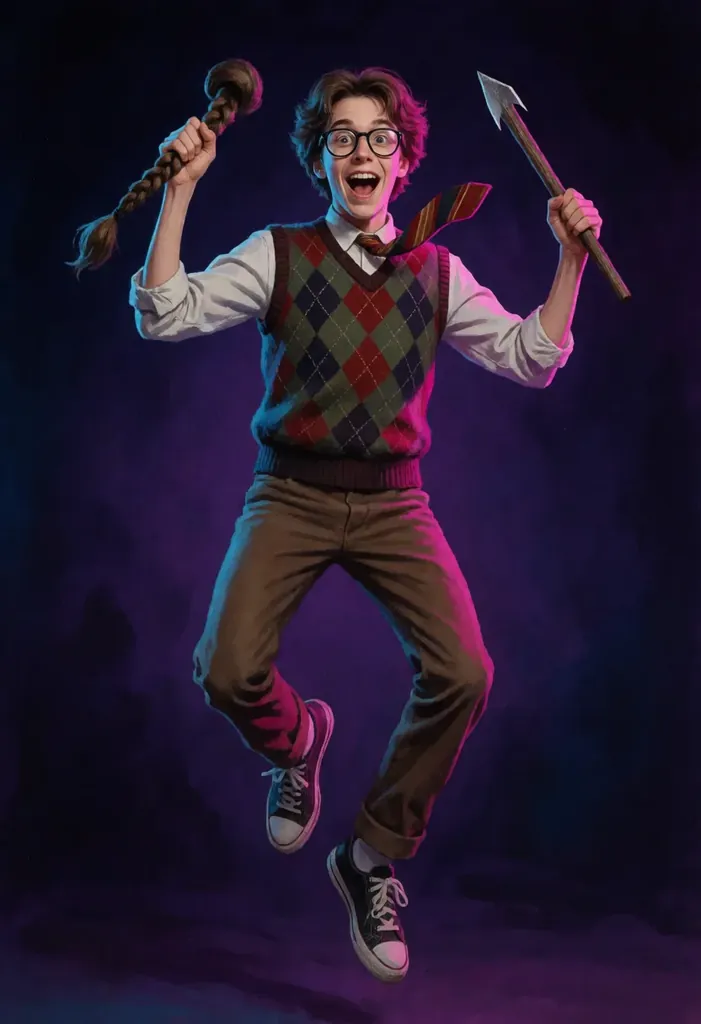
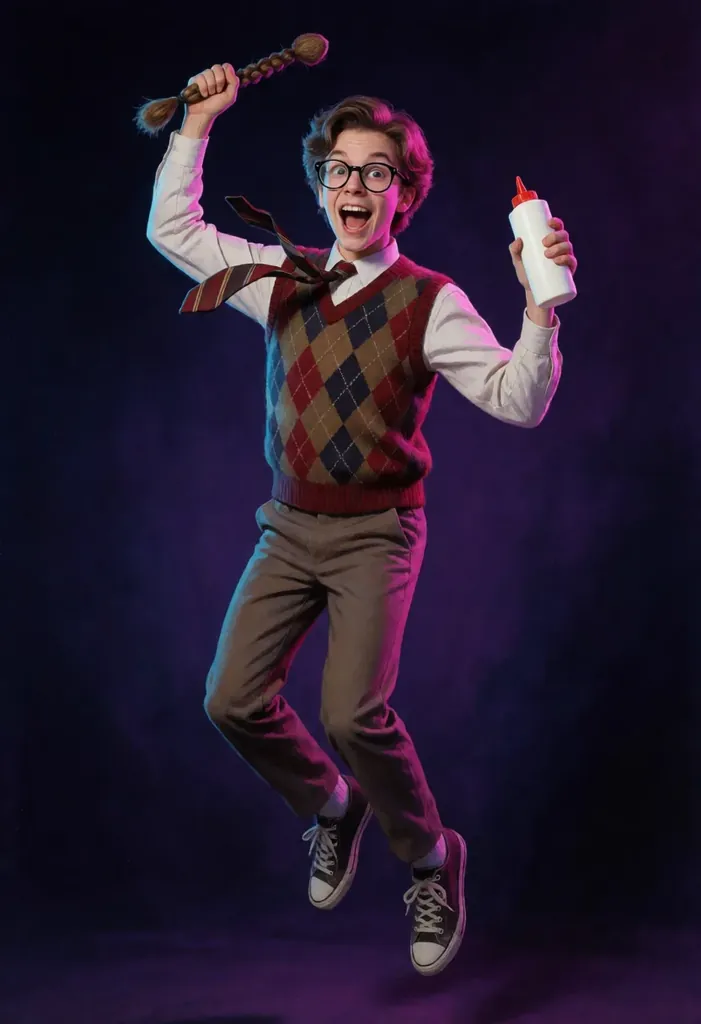
Crystal Street: clique cards in the new-week wizard, Vampire Hunter re-roll (#4163)
* Crystal Street: clique cards in the new-week wizard

Each clique gets a group-shot card (art brief in ARCHETYPES[].art,
rendered from conductor art/CLIQUES-1.yaml), so the clique step leads
with pictures like the look step; the drawn fallback shows until the art
lands. The art contract now covers the clique prompts too.

Claude-Session: https://claude.ai/code/session_011EBCUqzAQ1131HDHxvdCDN

* Crystal Street: clique card art, Vampire Hunter re-roll, lazy-loaded art

Six clique group shots reviewed at full size (conductor art/CLIQUES-1.yaml),
the Vampire Hunter avatar's second re-roll (a garlic braid and a holy-water
bottle, no blade), and loading=lazy/decoding=async on game art so the crew
and gallery grids don't fetch every portrait up front.

Claude-Session: https://claude.ai/code/session_011EBCUqzAQ1131HDHxvdCDN

---------

Changed region(s): [[0.0899, 0.0312, 0.8987, 1.0], [0.9287, 0.0938, 1.0, 0.1562], [0.7789, 0.5938, 0.8388, 0.6875]]

diff --git a/utils/crystalStreet/rules.ts b/utils/crystalStreet/rules.ts
@@ -79,6 +79,7 @@ export const ARCHETYPES: Archetype[] = [
     name: 'The Jock',
     text: 'Varsity jacket, mouthguard, unexpectedly great at hugs.',
     skills: { brawn: 3, brains: 1, charm: 2, nerve: 2, lore: 0, hustle: 1 },
+    art: 'A locker-room doorway at a 1986 high school at dusk, three teens in mismatched varsity jackets piling into a big group hug: a broad-shouldered girl with a mouthguard on a string, a lanky boy hugging a football, a grinning nonbinary teen with taped wrists, gym bags at their feet, a trophy case glowing behind them, everyone clearly delighted',
   },
   {
     id: 'brain',
@@ -86,6 +87,7 @@ export const ARCHETYPES: Archetype[] = [
     name: 'The Brain',
     text: 'Calculator watch, library card, a theory about everything.',
     skills: { brawn: 0, brains: 3, charm: 1, nerve: 1, lore: 2, hustle: 2 },
+    art: 'A cluttered 1986 school library table at night, three teens with calculator watches and library cards: one in thick glasses pointing at a hand-drawn map of a cul-de-sac pinned with red string, one scribbling equations on graph paper, one holding up a magnifying glass, stacks of encyclopedias and a green desk lamp',
   },
   {
     id: 'theatre-kid',
@@ -93,6 +95,7 @@ export const ARCHETYPES: Archetype[] = [
     name: 'The Theatre Kid',
     text: 'Knows every word of every midnight movie. Projects to the back row.',
     skills: { brawn: 1, brains: 1, charm: 3, nerve: 2, lore: 1, hustle: 1 },
+    art: 'A 1986 high school auditorium stage under one hot spotlight, three theatrical teens in thrift-store capes and a feather boa striking a huge dramatic pose, one clutching a dog-eared script, one belting into a hairbrush microphone, painted cardboard scenery of a haunted house behind them',
   },
   {
     id: 'burnout',
@@ -100,6 +103,7 @@ export const ARCHETYPES: Archetype[] = [
     name: 'The Burnout',
     text: 'Leather jacket, cassette deck, knows every shortcut in town.',
     skills: { brawn: 2, brains: 0, charm: 1, nerve: 2, lore: 1, hustle: 3 },
+    art: "The back lot of a 1986 high school at dusk, three teens in leather and denim jackets leaning on a beat-up van, one with a cassette boombox on her shoulder, one sketching a shortcut map on a napkin, one tossing a ring of keys, a chain-link fence with jack-o'-lanterns on the posts",
   },
   {
     id: 'prep',
@@ -107,6 +111,7 @@ export const ARCHETYPES: Archetype[] = [
     name: 'The Prep',
     text: 'Popped collar, perfect grades, secretly tired of both.',
     skills: { brawn: 1, brains: 2, charm: 3, nerve: 1, lore: 0, hustle: 2 },
+    art: 'The front steps of a 1986 high school in golden afternoon light, three teens in popped pastel polo collars with sweaters tied over their shoulders, one holding up a report card with a big A, one sighing over a crammed day planner, one quietly sharing half a sandwich with a younger kid',
   },
   {
     id: 'weirdo',
@@ -114,6 +119,7 @@ export const ARCHETYPES: Archetype[] = [
     name: 'The Weirdo',
     text: 'Ouija board in the backpack. Has been waiting for this week all year.',
     skills: { brawn: 0, brains: 2, charm: 0, nerve: 2, lore: 3, hustle: 2 },
+    art: 'A basement den in 1986 lit by candles and a lava lamp, three oddball teens around a card table: one in a thrifted black cape, one waving a homemade ghost detector made from a flashlight and antennas, one cross-legged over a hand-painted spirit board, tarot cards, monster magazines and cassette tapes everywhere',
   },
 ]
 

diff --git a/components/crystal-street/crystal-street-title.vue b/components/crystal-street/crystal-street-title.vue
@@ -199,25 +199,37 @@
                 v-for="a in ARCHETYPES"
                 :key="a.id"
                 type="button"
-                class="cs-choice text-left"
+                class="cs-choice flex items-start gap-3 text-left"
                 :class="archetype === a.id ? 'ring-2 ring-primary' : ''"
                 :aria-pressed="archetype === a.id"
                 @click="archetype = a.id"
               >
-                <span class="block font-semibold">{{ a.name }}</span>
-                <span class="block text-xs leading-snug opacity-75">{{
-                  a.text
-                }}</span>
-                <span
-                  class="mt-1 flex flex-wrap items-center gap-1 text-[10px] uppercase tracking-wider"
-                >
-                  <span class="opacity-70">{{ topSkills(a.skills) }}</span>
-                  <span class="opacity-70">· {{ STYLE_LABELS[a.style] }}</span>
+                <crystal-street-art
+                  class="shrink-0 rounded-xl"
+                  frame="h-20 w-20 @lg:h-24 @lg:w-24"
+                  kind="day"
+                  :seed="`clique:${a.id}`"
+                  :src="`/crystal-street/cliques/${a.id}.webp`"
+                  :alt="a.art"
+                />
+                <span class="min-w-0">
+                  <span class="block font-semibold">{{ a.name }}</span>
+                  <span class="block text-xs leading-snug opacity-75">{{
+                    a.text
+                  }}</span>
                   <span
-                    v-if="a.style === chosenAvatar.style"
-                    class="rounded-full bg-accent px-1.5 font-black text-accent-content"
-                    >Typecast</span
+                    class="mt-1 flex flex-wrap items-center gap-1 text-[10px] uppercase tracking-wider"
                   >
+                    <span class="opacity-70">{{ topSkills(a.skills) }}</span>
+                    <span class="opacity-70"
+                      >· {{ STYLE_LABELS[a.style] }}</span
+                    >
+                    <span
+                      v-if="a.style === chosenAvatar.style"
+                      class="rounded-full bg-accent px-1.5 font-black text-accent-content"
+                      >Typecast</span
+                    >
+                  </span>
                 </span>
               </button>
             </div>

diff --git a/utils/crystalStreet/artPrompts.ts b/utils/crystalStreet/artPrompts.ts
@@ -1,4 +1,5 @@
 import type {
+  Archetype,
   Avatar,
   Character,
   Companion,
@@ -29,6 +30,7 @@ export function allArtPrompts(content: {
   decks: TagDeck[]
   items: Item[]
   avatars: Avatar[]
+  cliques: Archetype[]
   characters: Character[]
   specialEndings: Record<string, { art: string }>
   title: string
@@ -36,6 +38,7 @@ export function allArtPrompts(content: {
   return [
     { key: 'title/crystal-street', prompt: content.title },
     ...content.avatars.map((a) => ({ key: `avatars/${a.id}`, prompt: a.art })),
+    ...content.cliques.map((c) => ({ key: `cliques/${c.id}`, prompt: c.art })),
     ...Object.entries(content.specialEndings).map(([id, e]) => ({
       key: `endings/special-${id}`,
       prompt: e.art,

diff --git a/utils/scripts/crystalStreetArtContract.ts b/utils/scripts/crystalStreetArtContract.ts
@@ -1,6 +1,7 @@
 import { checkArtPromptContract } from '../../server/utils/artPromptContract'
 import { allArtPrompts } from '../crystalStreet/artPrompts'
 import {
+  ARCHETYPES,
   ART_STYLE,
   AVATARS,
   CHARACTERS,
@@ -20,6 +21,7 @@ const prompts = allArtPrompts({
   decks: DECKS,
   items: ITEMS,
   avatars: AVATARS,
+  cliques: ARCHETYPES,
   characters: CHARACTERS,
   specialEndings: SPECIAL_ENDINGS,
   title: TITLE_ART,

diff --git a/components/crystal-street/crystal-street-art.vue b/components/crystal-street/crystal-street-art.vue
@@ -13,6 +13,8 @@
       :key="src"
       :src="src"
       :alt="alt"
+      loading="lazy"
+      decoding="async"
       class="absolute inset-0 h-full w-full object-cover transition-opacity duration-500"
       :class="[
         loaded ? 'opacity-100' : 'opacity-0',

diff --git a/utils/crystalStreet/types.ts b/utils/crystalStreet/types.ts
@@ -225,4 +225,6 @@ export type Archetype = {
   /** The clique's home style; a look that shares it is typecast. */
   style: Style
   skills: Record<Skill, number>
+  /** Group-shot brief for the clique card (conductor art/CLIQUES-1.yaml). */
+  art: string
 }
